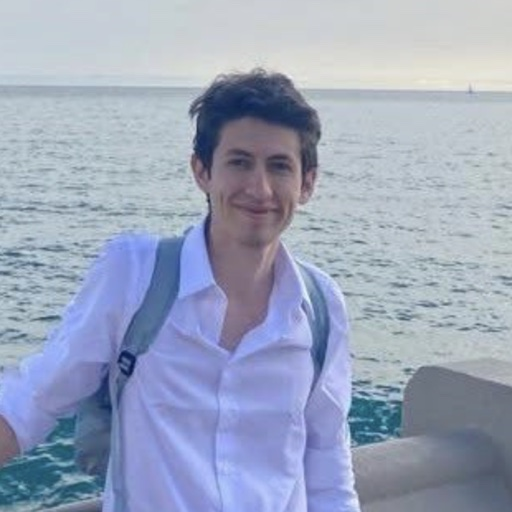
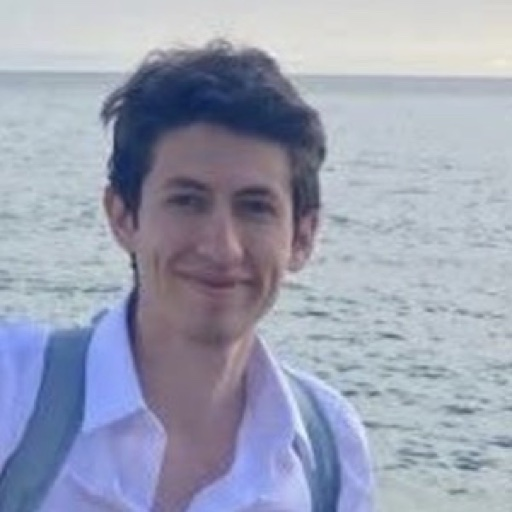
torneo-fifa: anuncios de semifinales y final, jugadores en plegable
- 'Los jugadores y sus equipos' pasa a un plegable cerrado arriba: la primera
  vista arranca en las eliminatorias, que es lo que se esta jugando.
- Al quedar resueltos los cuatro cuartos salta el anuncio de SEMIFINALES con los
  dos cruces; al quedar los dos finalistas, el de LA FINAL con los dos de frente
  y VS gigante; y al haber ganador, el de CAMPEON con confeti. Cada hito se
  anuncia una sola vez por dispositivo y entra a la misma cola que las
  eliminaciones, asi que no se pisan.
- Entran las 8 fotos con camiseta que genero Grok (comprimidas de 2,9 MB a 476 KB)
  y la foto de Miguel. Una foto que falta ya no se recuerda entre recargas: si se
  sube despues, aparece al refrescar.

diff --git a/torneo-fifa.html b/torneo-fifa.html
@@ -175,6 +175,35 @@
     details.seccion>summary{font-size:1.1rem;flex-wrap:wrap}
     #res-grupos{margin-left:0;flex-basis:100%;padding-left:0}
   }
+  /* ---- anuncios de fase: semifinales y final ---- */
+  .ov.fase{background:radial-gradient(circle at 50% 35%,rgba(8,26,50,.94),rgba(2,4,10,.98))}
+  .ov.oro{background:radial-gradient(circle at 50% 35%,rgba(70,50,6,.94),rgba(8,5,1,.985))}
+  .ov .rotulo{font-size:clamp(1.6rem,8vw,3.4rem);font-weight:900;letter-spacing:.14em;margin-bottom:6px;
+    animation:golpe .55s .1s both}
+  .ov.fase .rotulo{color:#7db3ff;text-shadow:0 0 26px rgba(59,130,246,.6)}
+  .ov.oro .rotulo{color:var(--gold);text-shadow:0 0 30px rgba(245,197,66,.65)}
+  .ov .bajada{color:rgba(255,255,255,.62);font-size:.92rem;margin-bottom:20px;animation:subir .4s .5s both}
+  .cruce{display:flex;align-items:center;justify-content:center;gap:10px;margin:12px 0;animation:subir .5s both}
+  .cruce .lado{display:flex;flex-direction:column;align-items:center;gap:6px;width:38vw;max-width:150px}
+  .cruce .lado b{font-size:.95rem;line-height:1.15;text-align:center}
+  .cruce .lado small{color:rgba(255,255,255,.55);font-size:.78rem}
+  .cruce .x{font-weight:900;color:rgba(255,255,255,.45);font-size:1.1rem}
+  .ov.fase .cruce .av{box-shadow:0 0 0 3px rgba(125,179,255,.55)}
+  /* la final: los dos de frente, grandes */
+  .duelo{display:flex;align-items:center;justify-content:center;gap:clamp(8px,4vw,28px);margin:8px 0 6px}
+  .duelo .lado{display:flex;flex-direction:column;align-items:center;gap:8px}
+  .duelo .av{box-shadow:0 0 0 4px var(--gold),0 0 46px rgba(245,197,66,.5)}
+  .duelo .izq{animation:entraIzq .8s cubic-bezier(.2,1.3,.4,1) both}
+  .duelo .der{animation:entraDer .8s cubic-bezier(.2,1.3,.4,1) both}
+  @keyframes entraIzq{from{transform:translateX(-60vw) rotate(-12deg);opacity:0}to{transform:none;opacity:1}}
+  @keyframes entraDer{from{transform:translateX(60vw) rotate(12deg);opacity:0}to{transform:none;opacity:1}}
+  .duelo .vsbig{font-size:clamp(1.8rem,9vw,3.4rem);font-weight:900;color:var(--gold);letter-spacing:.06em;
+    text-shadow:0 0 30px rgba(245,197,66,.7);animation:golpe .5s .8s both}
+  .duelo .lado b{font-size:clamp(.95rem,4vw,1.25rem);text-align:center;max-width:34vw}
+  .duelo .lado small{color:rgba(255,255,255,.6)}
+  .destello{position:absolute;inset:0;pointer-events:none;background:radial-gradient(circle at 50% 42%,rgba(255,255,255,.9),transparent 42%);
+    opacity:0;animation:flash .7s .75s both}
+  @keyframes flash{0%{opacity:0}18%{opacity:.85}100%{opacity:0}}
   .tag{font-size:.7rem;padding:2px 7px;border-radius:6px;background:#132417;color:var(--dim);border:1px solid var(--line)}
   @media(max-width:720px){
     details.fecha>summary{flex-wrap:wrap}
@@ -204,8 +233,10 @@
   <div class="muted" id="estado" style="margin-top:8px"></div>
 </header>
 
-<h2>Los jugadores y sus equipos</h2>
-<div class="grid g4" id="jugadores"></div>
+<details id="det-jugadores" class="seccion">
+  <summary>Los jugadores y sus equipos <span class="sm-h">8 jugadores · 16 equipos</span></summary>
+  <div class="cont"><div class="grid g4" id="jugadores"></div></div>
+</details>
 
 <section id="sec-grupos">
   <details id="det-grupos" class="seccion" open>
@@ -297,8 +328,8 @@ const slug=n=>n.normalize('NFD').replace(/[\u0300-\u036f]/g,'').toLowerCase().re
 const FOTO=(i,t)=>{ const base=`torneo-fifa/jugadores/${slug(JUGADORES[i])}`;
   return t==null?[base+'.jpg']:[`${base}-${slug(equipo(t).n)}.jpg`, base+'.jpg']; };
 const jugadorDe=t=>t<8?t:t-8;
-const FOTO_ROTA=new Set(JSON.parse(sessionStorage.getItem('fifa8-fotorota')||'[]').filter(u=>typeof u==='string'));   // solo urls; ignora restos del formato viejo
-function fotoRota(u){ FOTO_ROTA.add(u); sessionStorage.setItem('fifa8-fotorota',JSON.stringify([...FOTO_ROTA])); }
+const FOTO_ROTA=new Set();   // solo en memoria: si una foto se sube despues, al recargar se vuelve a pedir
+function fotoRota(u){ FOTO_ROTA.add(u); }
 function fotoFalla(img){   // cae al siguiente archivo de la cadena; una url que no existe no se vuelve a pedir en la sesion
   fotoRota(img.getAttribute('src')); const alt=img.dataset.alt;
   if(alt){ img.dataset.alt=''; img.src=alt; } else img.remove();
@@ -390,29 +421,85 @@ let ANUNCIADOS=new Set(JSON.parse(localStorage.getItem('fifa8-elim')||'[]'));
 let PRIMER_RENDER=true, COLA=[], MOSTRANDO=false, PREV_DONE=new Set();
 function revisarEliminados(){
   const fuera=eliminados(), nuevos=[...fuera].filter(t=>!ANUNCIADOS.has(t));
-  if(!nuevos.length) return;
-  nuevos.forEach(t=>ANUNCIADOS.add(t));
-  localStorage.setItem('fifa8-elim',JSON.stringify([...ANUNCIADOS]));
-  if(PRIMER_RENDER) return;                        // al abrir la pagina no se reviven anuncios viejos
-  COLA.push(...nuevos); if(!MOSTRANDO) siguienteAnuncio();
+  if(nuevos.length){
+    nuevos.forEach(t=>ANUNCIADOS.add(t));
+    localStorage.setItem('fifa8-elim',JSON.stringify([...ANUNCIADOS]));
+    if(!PRIMER_RENDER) COLA.push(...nuevos.map(t=>({tipo:'elim',t})));   // al abrir la pagina no se reviven anuncios viejos
+  }
+  revisarHitos();
+  if(COLA.length && !MOSTRANDO) siguienteAnuncio();
+}
+// ---------- hitos del torneo: semifinales y final ----------
+let HITOS=new Set(JSON.parse(localStorage.getItem('fifa8-hitos')||'[]'));
+function marcarHito(k){ HITOS.add(k); localStorage.setItem('fifa8-hitos',JSON.stringify([...HITOS])); }
+function revisarHitos(){
+  if(!bracketAlDia()) return;
+  const w=BRACKET.map((par,i)=>ganador('Q'+(i+1),par[0],par[1]));
+  if(w.every(x=>x!=null) && !HITOS.has('semis')){
+    marcarHito('semis'); if(!PRIMER_RENDER) COLA.push({tipo:'semis',w});
+  }
+  const f1=ganador('S1',w[0],w[1]), f2=ganador('S2',w[2],w[3]);
+  if(f1!=null&&f2!=null && !HITOS.has('final')){
+    marcarHito('final'); if(!PRIMER_RENDER) COLA.push({tipo:'final',a:f1,b:f2});
+  }
+  const camp=ganador('F',f1,f2);
+  if(camp!=null && !HITOS.has('campeon')){
+    marcarHito('campeon'); if(!PRIMER_RENDER) COLA.push({tipo:'campeon',t:camp});
+  }
+}
+function caja(t,size){   // foto + escudo + nombres, para los anuncios de fase
+  const e=equipo(t);
+  return `<div class="lado">${avatar(jugadorDe(t),size,t)}<b>${escudo(e.n,15)} ${e.n}</b><small>${e.j}</small></div>`;
 }
 function siguienteAnuncio(){
-  const t=COLA.shift();
-  if(t==null){ MOSTRANDO=false; const v=document.querySelector('.ov'); if(v)v.remove(); return; }
+  const a=COLA.shift();
+  const v0=document.querySelector('.ov'); if(v0) v0.remove();
+  if(!a){ MOSTRANDO=false; return; }
   MOSTRANDO=true;
-  const e=equipo(t);
-  const mio=t<8?t+8:t-8;                            // el otro equipo de esa misma persona
-  const sinEquipos=eliminados().has(mio) && !COLA.includes(mio);   // el aviso va con el ultimo de los dos
-  const v=document.querySelector('.ov')||document.body.appendChild(Object.assign(document.createElement('div'),{className:'ov'}));
-  v.innerHTML=`<div class="caja">
-    <div class="quien-foto">${avatar(jugadorDe(t),150,t)}${escudo(e.n,56)}</div>
-    <div class="grieta">ELIMINADO</div>
-    <div class="quien">${e.n} · <b>${e.j}</b></div>
-    <div class="motivo">Ya no le alcanza para clasificar</div>
-    ${sinEquipos?`<div class="fuera">☠ ${e.j} se queda sin equipos</div>`:''}
-    <div class="tocar">toca para seguir${COLA.length?` · faltan ${COLA.length}`:''}</div></div>`;
+  const v=document.body.appendChild(document.createElement('div'));
+  let dur=5200;
+  if(a.tipo==='elim'){
+    const t=a.t, e=equipo(t), mio=t<8?t+8:t-8;
+    const sinEquipos=eliminados().has(mio) && !COLA.some(x=>x.tipo==='elim'&&x.t===mio);   // el aviso va con el ultimo de los dos
+    v.className='ov';
+    v.innerHTML=`<div class="caja">
+      <div class="quien-foto">${avatar(jugadorDe(t),150,t)}${escudo(e.n,56)}</div>
+      <div class="grieta">ELIMINADO</div>
+      <div class="quien">${e.n} · <b>${e.j}</b></div>
+      <div class="motivo">Ya no le alcanza para clasificar</div>
+      ${sinEquipos?`<div class="fuera">☠ ${e.j} se queda sin equipos</div>`:''}
+      <div class="tocar">toca para seguir${COLA.length?` · faltan ${COLA.length}`:''}</div></div>`;
+  } else if(a.tipo==='semis'){
+    v.className='ov fase';
+    v.innerHTML=`<div class="caja">
+      <div class="rotulo">SEMIFINALES</div>
+      <div class="bajada">Quedan cuatro · 15:05 y 15:15</div>
+      <div class="cruce" style="animation-delay:.6s">${caja(a.w[0],78)}<span class="x">VS</span>${caja(a.w[1],78)}</div>
+      <div class="cruce" style="animation-delay:.95s">${caja(a.w[2],78)}<span class="x">VS</span>${caja(a.w[3],78)}</div>
+      <div class="tocar">toca para seguir${COLA.length?` · faltan ${COLA.length}`:''}</div></div>`;
+    dur=7000;
+  } else if(a.tipo==='final'){
+    v.className='ov oro';
+    v.innerHTML=`<div class="destello"></div><div class="caja">
+      <div class="rotulo">LA FINAL</div>
+      <div class="bajada">15:25 · el que gana se lleva la Copa de los 8</div>
+      <div class="duelo"><div class="izq">${caja(a.a,110)}</div><span class="vsbig">VS</span><div class="der">${caja(a.b,110)}</div></div>
+      <div class="tocar">toca para seguir${COLA.length?` · faltan ${COLA.length}`:''}</div></div>`;
+    dur=8000;
+  } else {   // campeon
+    const e=equipo(a.t);
+    const conf=Array.from({length:34},(_,k)=>`<span class="confeti" style="left:${(k*2.9)%100}%;background:${['#f5c542','#4ade80','#3b82f6','#ef4444','#fff'][k%5]};animation-duration:${2.4+(k%5)*.5}s;animation-delay:${(k%7)*.3}s"></span>`).join('');
+    v.className='ov oro'; v.style.overflow='hidden';
+    v.innerHTML=`${conf}<div class="destello"></div><div class="caja">
+      <div class="rotulo">🏆 CAMPEÓN</div>
+      <div class="duelo"><div class="izq"><div class="lado">${avatar(jugadorDe(a.t),150,a.t)}</div></div></div>
+      <div class="quien" style="margin-top:14px;font-size:clamp(1.5rem,8vw,2.6rem);color:var(--gold)"><b>${e.j}</b></div>
+      <div class="bajada" style="margin:8px 0 0">${escudo(e.n,18)} con ${e.n}</div>
+      <div class="tocar">toca para seguir</div></div>`;
+    dur=9000;
+  }
   v.onclick=()=>{ clearTimeout(v._t); siguienteAnuncio(); };
-  v._t=setTimeout(()=>siguienteAnuncio(),5200);
+  v._t=setTimeout(()=>siguienteAnuncio(),dur);
 }
 // ---------- render ----------
 function render(){
@@ -608,6 +695,7 @@ function resortear(){
   localStorage.setItem(LS_SORTEO,JSON.stringify(SORTEO)); S={}; BRACKET=null; localStorage.removeItem(LS_SCORES); render(); publicar();
 }
 document.getElementById('barra-admin').hidden=!ADMIN;
+try{sessionStorage.removeItem('fifa8-fotorota');}catch(e){}
 document.body.classList.add('intro'); render();
 traer().finally(()=>{ PRIMER_RENDER=false; setTimeout(()=>document.body.classList.remove('intro'),1500); });
 setInterval(()=>{ if(document.hidden) return;
